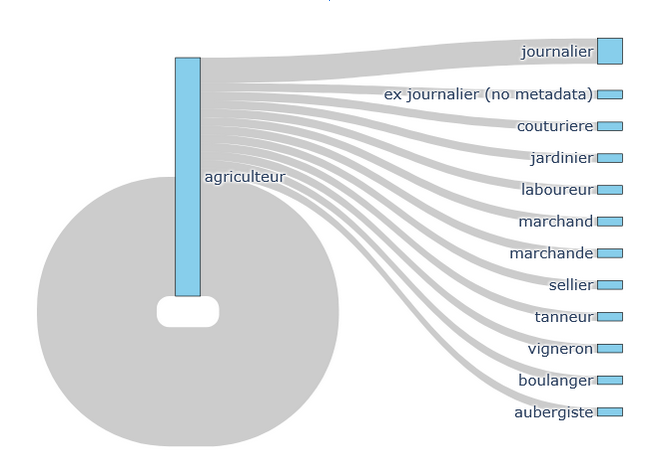
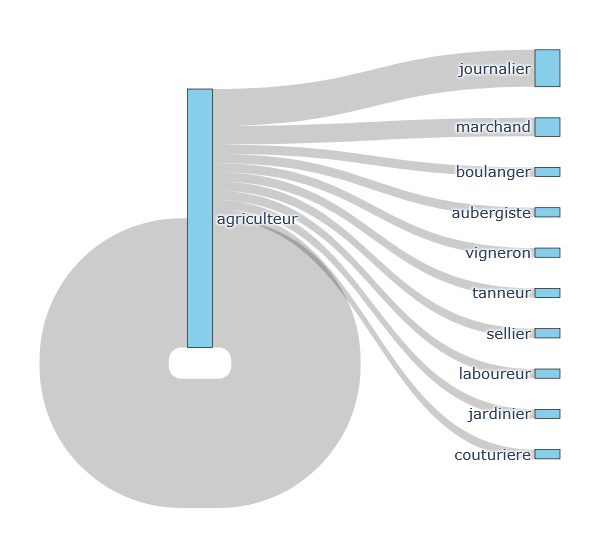
change sankey + new analysis

Changed region(s): [[0.0593, 0.0607, 0.9786, 0.9718]]

diff --git a/src/views/AnalysisView.vue b/src/views/AnalysisView.vue
@@ -152,7 +152,11 @@
         <br><br>
         Enfin, nous pouvons nous pencher sur des métiers spécifiques. A cette fin, nous avons choisis 3 métiers
         possèdent de nombreux individus dans nos paires parent/enfant, qui représentent la classe populaire
-        (agriculteur), la classe moyenne (négociant) et la classe bourgeoise (rentier). Pour chacune nous avons crée un
+        (agriculteur) et la classe moyenne-haute (négociant). Les rentiers quant à eux, ce sont des personnes qui
+        reçoivent une rente, mais cette dernière peut provenir de l'état ou bien de fonds privés. Ainsi, ceux
+        catégorisés comme "rentiers" peuvent provenir de classes sociales différents, mais il reste néanmoins
+        intéressant d'analyser leurs relations. Pour chacune nous
+        avons crée un
         diagramme de Sankey, afin de visualiser ce que deviennent les enfants des parents ayant le métier mentionné
         précedemment:
 
@@ -165,9 +169,12 @@
         Ces diagrames montrent donc le rapport entre 3
         “métiers” faisant partie de 3 classes sociales différentes, par rapport aux métiers de leurs enfants. Sans
         grande surprise, les enfants de parents agriculteurs restent pour la plupart liés à l’agriculture, tandis que
-        ceux issus de parents négociants ou rentiers, possadant un capital financier plus important, ont pour la plupart
+        ceux issus de parents négociants ou une majorité des rentiers, possadant un capital financier plus important,
+        ont pour la plupart
         soit des professions de prestige nécessitant des études, tels que banquier ou avocat, soit ils sont eux-mêmes
-        propriétaires et sont capables d'en vivre.
+        propriétaires ou rentiers et sont capables de vivre de leurs acquis. On perçoit néanmoins un bon nombre de
+        rentiers ayant des enfants à métiers plus "pauvres", ces derniers sont sans doute ceux dont la rente ne provient
+        pas d'acquis financiers, mais de l'état ou d'une autre entité externe.
 
 
         <h1 class="analysis_title">Conclusion</h1>
@@ -177,7 +184,8 @@
         supposer que le début du changement d’une économie de production vers une forme primitive de l’économie de
         services se situe aux alentours de 1880-90.
         <br><br>
-        Concernant la mobilité sociale, celle-ci n'existe que très légèrement. Les enfants restent tendanciellement dans la
+        Concernant la mobilité sociale, celle-ci n'existe que très légèrement. Les enfants restent tendanciellement dans
+        la
         même catégorie que leurs parents. La plus grande mobilité se trouve dans le secteur primaire, dont bon nombre
         d’enfants changent vers le secteur secondaire, tandis que près d’un quart des enfants naissant de parents
         travaillant dans l’industrie possèdent des métiers dans les services. Toutefois, les enfants à cette époque
